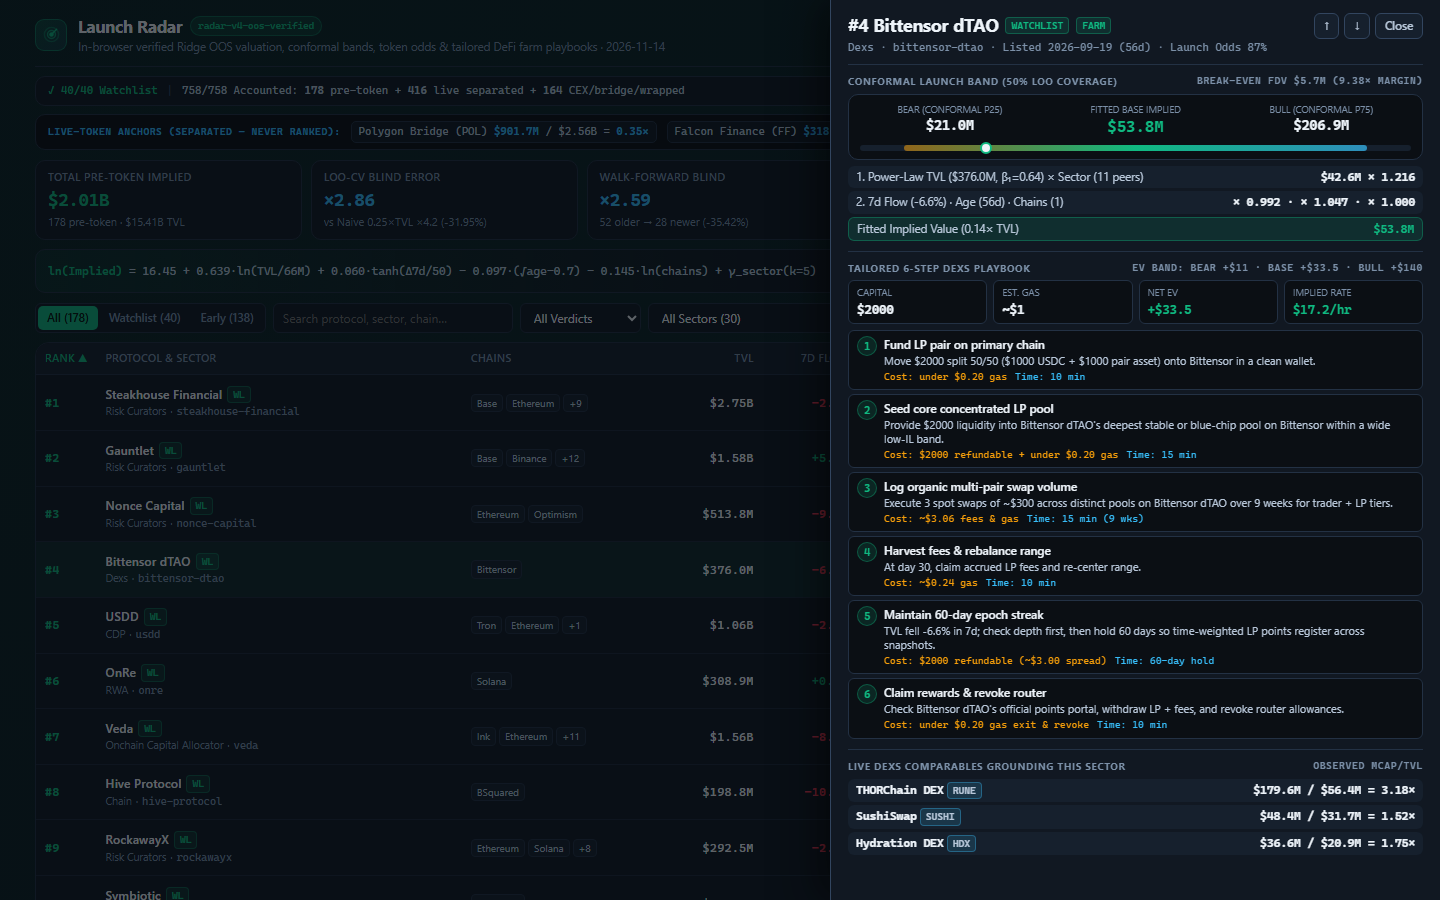
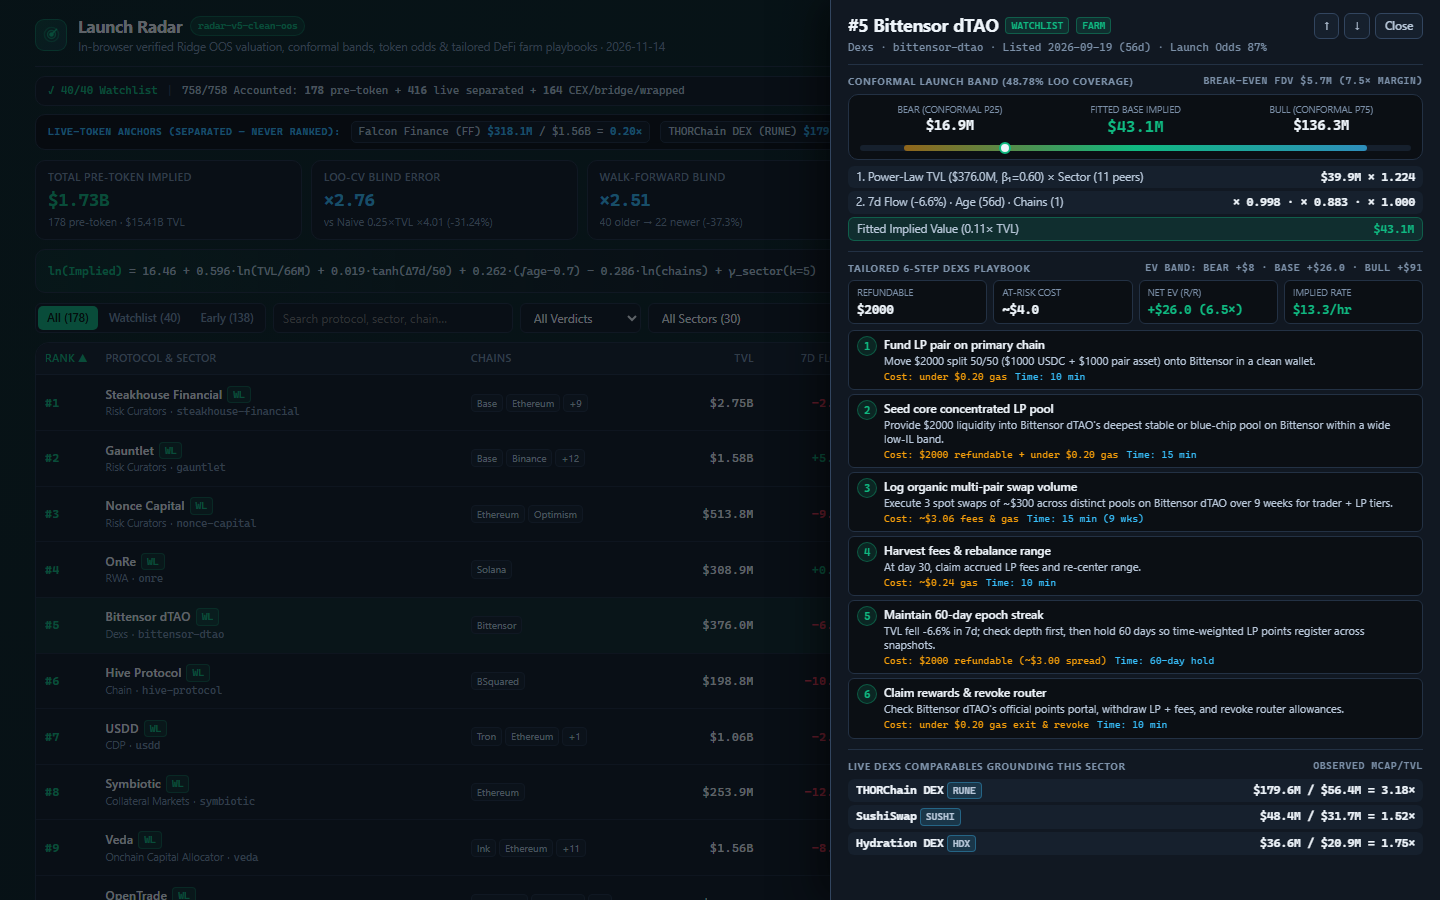
Upgrade to radar-v5-clean-oos: 82 clean DeFi peers (no bridges/LSTs), LOO x2.76 + WF x2.51 ablation, R/R farm economics

diff --git a/dashboard/app.js b/dashboard/app.js
@@ -30,8 +30,7 @@
   const ch = Math.min(Math.log(Math.max(1, chainCount)), 2.5);
   return [1, lt, g, a, ch];
  }
- /** Closed-form Ridge regression (regularizing slopes, never intercept) verified live on DATA.live. */
- function solveRidge(X, y, lambda) {
+  function solveRidge(X, y, lambda) {
   const d = X[0].length;
   const A = Array.from({ length: d }, () => Array(d).fill(0));
   const b = Array(d).fill(0);
@@ -62,8 +61,7 @@
   }
   return w;
  }
- /** Re-fits Ridge + Sector Empirical-Bayes shrinkage live from DATA.live so sandbox & OOS checks are 100% transparent. */
- function fitLiveModel(livePeers, lambda, catK) {
+  function fitLiveModel(livePeers, lambda, catK) {
   const pts = livePeers.map((p) => ({
    cat: p.category || 'Other',
    tvl: p.tvl_usd,
@@ -92,8 +90,7 @@
    catAdj,
   };
  }
- /** Live Leave-One-Out verification on DATA.live (matches lib/model.ts identically). */
- function verifyLooInBrowser(livePeers, lambda, catK) {
+  function verifyLooInBrowser(livePeers, lambda, catK) {
   const pts = livePeers.map((p) => ({
    cat: p.category || 'Other',
    lmcap: Math.log(p.mcap_usd),
@@ -111,8 +108,7 @@
   absErrs.sort((a, b) => a - b);
   return round2(Math.exp(quantile(absErrs, 0.5)));
  }
- /** Live Walk-Forward blind test (older 65% -> newer 35% by listed_at) verified directly on DATA.live. */
- function verifyWalkForwardInBrowser(livePeers, lambda, catK) {
+  function verifyWalkForwardInBrowser(livePeers, lambda, catK) {
   const dated = livePeers.filter((p) => p.listed_at).sort((a, b) => (a.listed_at < b.listed_at ? -1 : a.listed_at > b.listed_at ? 1 : a.slug.localeCompare(b.slug)));
   const split = Math.floor(dated.length * 0.65);
   const toPt = (p) => ({ cat: p.category || 'Other', lmcap: Math.log(p.mcap_usd), f: featureVector(p.tvl_usd, p.change_7d, p.age_days, p.chains.length) });
@@ -126,8 +122,7 @@
   }).sort((a, b) => a - b);
   return round2(Math.exp(quantile(errs, 0.5)));
  }
- /** Empirical token launch odds from snapshot sector token rates, TVL scale, and survival-adjusted age hazard. */
- function computeTokenOdds(row) {
+  function computeTokenOdds(row) {
   const cat = DATA.categories[row.category || 'Other'];
   const baseRate = cat ? cat.token_rate : DATA.global_token_rate;
   const tvlLift = clamp((Math.log10(Math.max(5e6, row.tvl_usd)) - 7.3) * 0.08, -0.06, 0.16);
@@ -164,8 +159,7 @@
  const fmtPct = (v) => (v === null || v === undefined || !Number.isFinite(v) ? 'N/A' : `${v >= 0 ? '+' : ''}${v.toFixed(1)}%`);
  const fmtAge = (d) => (d === null || d === undefined ? 'N/A' : d >= 365 ? `${(d / 365).toFixed(1)}y` : `${d}d`);
  const fmtSigned = (v, digits) => `${v >= 0 ? '+ ' : '− '}${Math.abs(v).toFixed(digits)}`;
- /** Scores a protocol using the fitted Ridge power-law model, conformal band, and net-EV farm verdict. */
- function computeImpliedValue(row, w) {
+  function computeImpliedValue(row, w) {
   const f = featureVector(row.tvl_usd, row.change_7d, row.age_days, row.chains.length);
   const catKey = row.category || 'Other';
   const sectorAdj = LIVE_FIT.catAdj[catKey] ?? (DATA.categories[catKey]?.log_residual_adj ?? 0);
@@ -209,8 +203,7 @@
    verdict,
   };
  }
- /** Category-specific 6-step DeFi farm playbook matching lib/model.ts identically. */
- function buildFarmPlan(row) {
+  function buildFarmPlan(row) {
   const chains = row.chains || [];
   const lowFee = chains.find((c) => c !== 'Ethereum' && (L2_CHAINS.has(c) || ALT_L1_CHAINS.has(c)));
   const primary = lowFee || chains[0] || 'its primary chain';
@@ -526,23 +519,23 @@
   return `
    <section class="two-col">
     <div class="card">
-     <h2>Out-of-Sample Term Ablation &amp; Blind Walk-Forward (${v.live_fit_count} Live Comps)</h2>
-     <p>Both <code>solveRidge</code> and <code>verifyLooInBrowser</code> run live on <code>DATA.live</code> inside this page, confirming zero hardcoded weights and verifying LOO-CV ×${LIVE_LOO_ERR} against the naive 0.25×TVL baseline (×${v.loo_naive_mult_err}).</p>
+     <h2>Out-of-Sample Ablation &amp; Blind Walk-Forward (${v.live_fit_count} Clean DeFi Comps)</h2>
+     <p><code>solveRidge</code>, <code>verifyLooInBrowser</code> &amp; <code>verifyWalkForwardInBrowser</code> run live on <code>DATA.live</code> (bridges, LSTs &amp; CEXs excluded): LOO ×${LIVE_LOO_ERR} vs naive ×${v.loo_naive_mult_err}, Walk-Fwd ×${LIVE_WF_ERR}.</p>
      <div class="table-wrap" style="margin:8px 0 10px;border:1px solid var(--border);border-radius:var(--r-md)"><table>
-      <thead><tr><th>Model Specification (LOO-CV n=${v.live_fit_count})</th><th class="r">Median Err</th><th class="r">MAE(log)</th><th class="r">vs Naive</th></tr></thead>
+      <thead><tr><th>Model Spec (n=${v.live_fit_count} DeFi)</th><th class="r">LOO Err</th><th class="r">Walk-Fwd</th><th class="r">MAE</th><th class="r">vs Naive</th></tr></thead>
       <tbody>${v.ablation.map((a, idx) => `
        <tr style="${idx === v.ablation.length - 1 ? 'background:var(--emerald-dim)' : ''}">
         <td><b>${esc(a.label)}</b></td>
         <td class="r mono" style="color:${idx === v.ablation.length - 1 ? 'var(--emerald)' : 'var(--ink)'}">×${a.loo_mult_err.toFixed(2)}</td>
-        <td class="r mono">${a.loo_mae_log.toFixed(4)}</td>
-        <td class="r mono" style="color:${a.delta_vs_naive_pct > 0 ? 'var(--emerald)' : 'var(--muted)'}">${a.delta_vs_naive_pct > 0 ? `-${a.delta_vs_naive_pct}%` : 'baseline'}</td>
+        <td class="r mono" style="color:${idx === v.ablation.length - 1 ? 'var(--cyan)' : 'var(--ink-soft)'}">×${a.wf_mult_err.toFixed(2)}</td>
+        <td class="r mono">${a.loo_mae_log.toFixed(3)}</td>
+        <td class="r mono" style="color:${a.delta_vs_naive_pct > 0 ? 'var(--emerald)' : 'var(--muted)'}">${a.delta_vs_naive_pct > 0 ? `-${a.delta_vs_naive_pct}%` : 'base'}</td>
        </tr>`).join('')}
       </tbody>
      </table></div>
-     <div class="code-block">Temporal Walk-Forward (${v.wf_train_count} older → ${v.wf_test_count} newer by listed_at):
- Fitted Ridge + Sector EB : ×${v.wf_median_mult_err} vs Naive ×${v.wf_naive_mult_err} (-${v.wf_error_reduction_pct}% error)
-Conformal Band (LOO residuals q25=${w.conformal_q25}, q75=${w.conformal_q75}): ${v.conformal_50_coverage_pct}% verified coverage
-Farm EV Rule: 10% community pool (1.5× active weight) × token_odds − gas − 15 bps spread</div>
+     <div class="code-block">Walk-Fwd (${v.wf_train_count} older → ${v.wf_test_count} newer): ×${LIVE_WF_ERR} vs Naive ×${v.wf_naive_mult_err} (-${v.wf_error_reduction_pct}%)
+Conformal Band (q25=${w.conformal_q25}, q75=${w.conformal_q75}): ${v.conformal_50_coverage_pct}% verified LOO coverage
+Farm EV: 10% pool (1.5× active) × odds − gas − 15 bps spread</div>
     </div>
     <div class="card" style="padding:0;overflow:hidden">
      <div style="padding:11px 14px;border-bottom:1px solid var(--border)"><h2 style="margin:0">Empirical Sector Residual Factors &amp; Token Rates</h2></div>
@@ -606,9 +599,9 @@ Farm EV Rule: 10% community pool (1.5× active weight) × token_odds − gas −
      <section class="drawer-section">
       <div class="section-label"><span>Tailored 6-Step ${esc(row.category || 'DeFi')} Playbook</span><span class="mono">EV Band: Bear ${row.bear_ev_usd >= 0 ? `+$${row.bear_ev_usd.toFixed(0)}` : `-$${Math.abs(row.bear_ev_usd).toFixed(0)}`} · Base ${evStr} · Bull +$${row.bull_ev_usd.toFixed(0)}</span></div>
       <div class="farm-meta-strip">
-       <div class="farm-stat"><small>Capital</small><b>$${plan.capital}</b></div>
-       <div class="farm-stat"><small>Est. Gas</small><b>~$${plan.estGas}</b></div>
-       <div class="farm-stat"><small>Net EV</small><b style="color:${row.net_ev_usd >= 0 ? 'var(--emerald)' : 'var(--rose)'}">${evStr}</b></div>
+       <div class="farm-stat"><small>Refundable</small><b>$${plan.capital}</b></div>
+       <div class="farm-stat"><small>At-Risk Cost</small><b>~$${(plan.estGas + plan.capital * 0.0015).toFixed(1)}</b></div>
+       <div class="farm-stat"><small>Net EV (R/R)</small><b style="color:${row.net_ev_usd >= 0 ? 'var(--emerald)' : 'var(--rose)'}">${evStr} (${(row.net_ev_usd / Math.max(0.5, plan.estGas + plan.capital * 0.0015)).toFixed(1)}×)</b></div>
        <div class="farm-stat"><small>Implied Rate</small><b style="color:${row.hourly_ev_usd >= 10 ? 'var(--emerald)' : 'var(--amber)'}">$${row.hourly_ev_usd.toFixed(1)}/hr</b></div>
       </div>
       <ol class="steps-list">

diff --git a/lib/model.ts b/lib/model.ts
@@ -40,6 +40,7 @@ export interface AblationRow {
   label: string;
   loo_mult_err: number;
   loo_mae_log: number;
+  wf_mult_err: number;
   delta_vs_naive_pct: number;
 }
 
@@ -204,7 +205,7 @@ export interface RadarDataset {
   live: LivePeerRow[];
 }
 
-export const MODEL_VERSION = 'radar-v4-oos-verified';
+export const MODEL_VERSION = 'radar-v5-clean-oos';
 
 const DAY_MS = 86_400_000;
 const RIDGE_LAMBDA = 3.0;
@@ -213,7 +214,7 @@ const TVL_CENTER = 18.0;
 const AGE_CENTER = 0.7;
 
 const EXCLUDED_CATEGORIES = new Set([
-  'Bridge', 'Canonical Bridge', 'Liquid Staking', 'Liquid Restaking', 'Restaked BTC', 'CEX',
+  'Bridge', 'Canonical Bridge', 'Cross Chain Bridge', 'Liquid Staking', 'Liquid Restaking', 'Restaked BTC', 'CEX',
 ]);
 const EXCHANGE_PREFIXES = ['Binance', 'Coinbase', 'Bybit', 'Kraken', 'Bitget', 'OKX', 'Bitfinex', 'Gemini'];
 const VERSION_SUFFIX = /\s(V\d+(\.\d+)?|v\d+(\.\d+)?|\d+\.\d+)$/;
@@ -388,7 +389,7 @@ export function fitValuationModel(snapshot: Snapshot): {
       if (hasTok) sc.token += 1;
       sectorCounts.set(cat, sc);
     }
-    if (isPreToken(p) || p.category === 'CEX') continue;
+    if (isPreToken(p) || (p.category !== null && EXCLUDED_CATEGORIES.has(p.category))) continue;
     if (p.mcap_usd === null || p.mcap_usd <= 0 || p.tvl_usd <= 0) continue;
     const ratio = p.mcap_usd / p.tvl_usd;
     if (ratio < 0.005 || ratio > 10.0) continue;
@@ -420,7 +421,25 @@ export function fitValuationModel(snapshot: Snapshot): {
   const naiveMedMult = Math.exp(quantile([...naiveAbs].sort((a, b) => a - b), 0.5));
   const naiveMae = naiveAbs.reduce((s, v) => s + v, 0) / Math.max(1, naiveAbs.length);
 
-  // Term-by-term LOO ablation
+  // Walk-Forward helper (older 65% -> newer 35% by listed_at)
+  const dated = points
+    .filter((p) => p.listed_at !== null)
+    .sort((a, b) => (a.listed_at! < b.listed_at! ? -1 : a.listed_at! > b.listed_at! ? 1 : a.slug.localeCompare(b.slug)));
+  const split = Math.floor(dated.length * 0.65);
+  const wfTrain = dated.slice(0, split);
+  const wfTest = dated.slice(split);
+  const wfNaiveAbs = wfTest.map((t) => Math.abs(t.lmcap - Math.log(0.25 * t.tvl_usd))).sort((a, b) => a - b);
+  const wfNaiveMult = Math.exp(quantile(wfNaiveAbs, 0.5));
+
+  const evalWfSubset = (cols: number[], useCat: boolean): number => {
+    const m = fitSubset(wfTrain, cols, RIDGE_LAMBDA, useCat, SECTOR_SHRINKAGE_K);
+    const errs = wfTest
+      .map((t) => Math.abs(t.lmcap - (dot(m.w, cols.map((c) => t.features[c]!)) + (useCat ? (m.catAdj.get(t.category) ?? 0) : 0))))
+      .sort((a, b) => a - b);
+    return Math.exp(quantile(errs, 0.5));
+  };
+
+  // Term-by-term LOO + Walk-Forward ablation
   const abSpecs: Array<{ label: string; cols: number[]; cat: boolean }> = [
     { label: 'Power-Law TVL only', cols: [0, 1], cat: false },
     { label: '+ Sector EB Shrinkage', cols: [0, 1], cat: true },
@@ -428,37 +447,30 @@ export function fitValuationModel(snapshot: Snapshot): {
     { label: 'Full Ridge (+ Chains)', cols: [0, 1, 2, 3, 4], cat: true },
   ];
   const ablation: AblationRow[] = [
-    { label: 'Naive 0.25 × TVL', loo_mult_err: round2(naiveMedMult), loo_mae_log: round4(naiveMae), delta_vs_naive_pct: 0 },
+    { label: 'Naive 0.25 × TVL', loo_mult_err: round2(naiveMedMult), loo_mae_log: round4(naiveMae), wf_mult_err: round2(wfNaiveMult), delta_vs_naive_pct: 0 },
   ];
   let fullLoo = { medMult: naiveMedMult, mae: naiveMae, signedRes: [] as number[] };
+  let wfMedMult = wfNaiveMult;
   for (const sp of abSpecs) {
     const r = evalLooSubset(points, sp.cols, sp.cat);
+    const wfE = evalWfSubset(sp.cols, sp.cat);
     ablation.push({
       label: sp.label,
       loo_mult_err: round2(r.medMult),
       loo_mae_log: round4(r.mae),
+      wf_mult_err: round2(wfE),
       delta_vs_naive_pct: round2(((naiveMedMult - r.medMult) / naiveMedMult) * 100),
     });
-    if (sp.cols.length === 5 && sp.cat) fullLoo = r;
+    if (sp.cols.length === 5 && sp.cat) {
+      fullLoo = r;
+      wfMedMult = wfE;
+    }
   }
 
   const sortedSigned = [...fullLoo.signedRes].sort((a, b) => a - b);
   const q25 = quantile(sortedSigned, 0.25);
   const q75 = quantile(sortedSigned, 0.75);
   const insideConformal = fullLoo.signedRes.filter((r) => r >= q25 && r <= q75).length;
-
-  // Walk-Forward blind test (older 65% -> newer 35%)
-  const dated = points
-    .filter((p) => p.listed_at !== null)
-    .sort((a, b) => (a.listed_at! < b.listed_at! ? -1 : a.listed_at! > b.listed_at! ? 1 : a.slug.localeCompare(b.slug)));
-  const split = Math.floor(dated.length * 0.65);
-  const wfTrain = dated.slice(0, split);
-  const wfTest = dated.slice(split);
-  const wfModel = fitSubset(wfTrain, allCols, RIDGE_LAMBDA, true, SECTOR_SHRINKAGE_K);
-  const wfAbs = wfTest.map((t) => Math.abs(t.lmcap - (dot(wfModel.w, t.features) + (wfModel.catAdj.get(t.category) ?? 0)))).sort((a, b) => a - b);
-  const wfNaiveAbs = wfTest.map((t) => Math.abs(t.lmcap - Math.log(0.25 * t.tvl_usd))).sort((a, b) => a - b);
-  const wfMedMult = Math.exp(quantile(wfAbs, 0.5));
-  const wfNaiveMult = Math.exp(quantile(wfNaiveAbs, 0.5));
 
   const allCats = new Set([...rawMultByCat.keys(), ...sectorCounts.keys()]);
   const categories: Record<string, CategoryEffect> = {};
